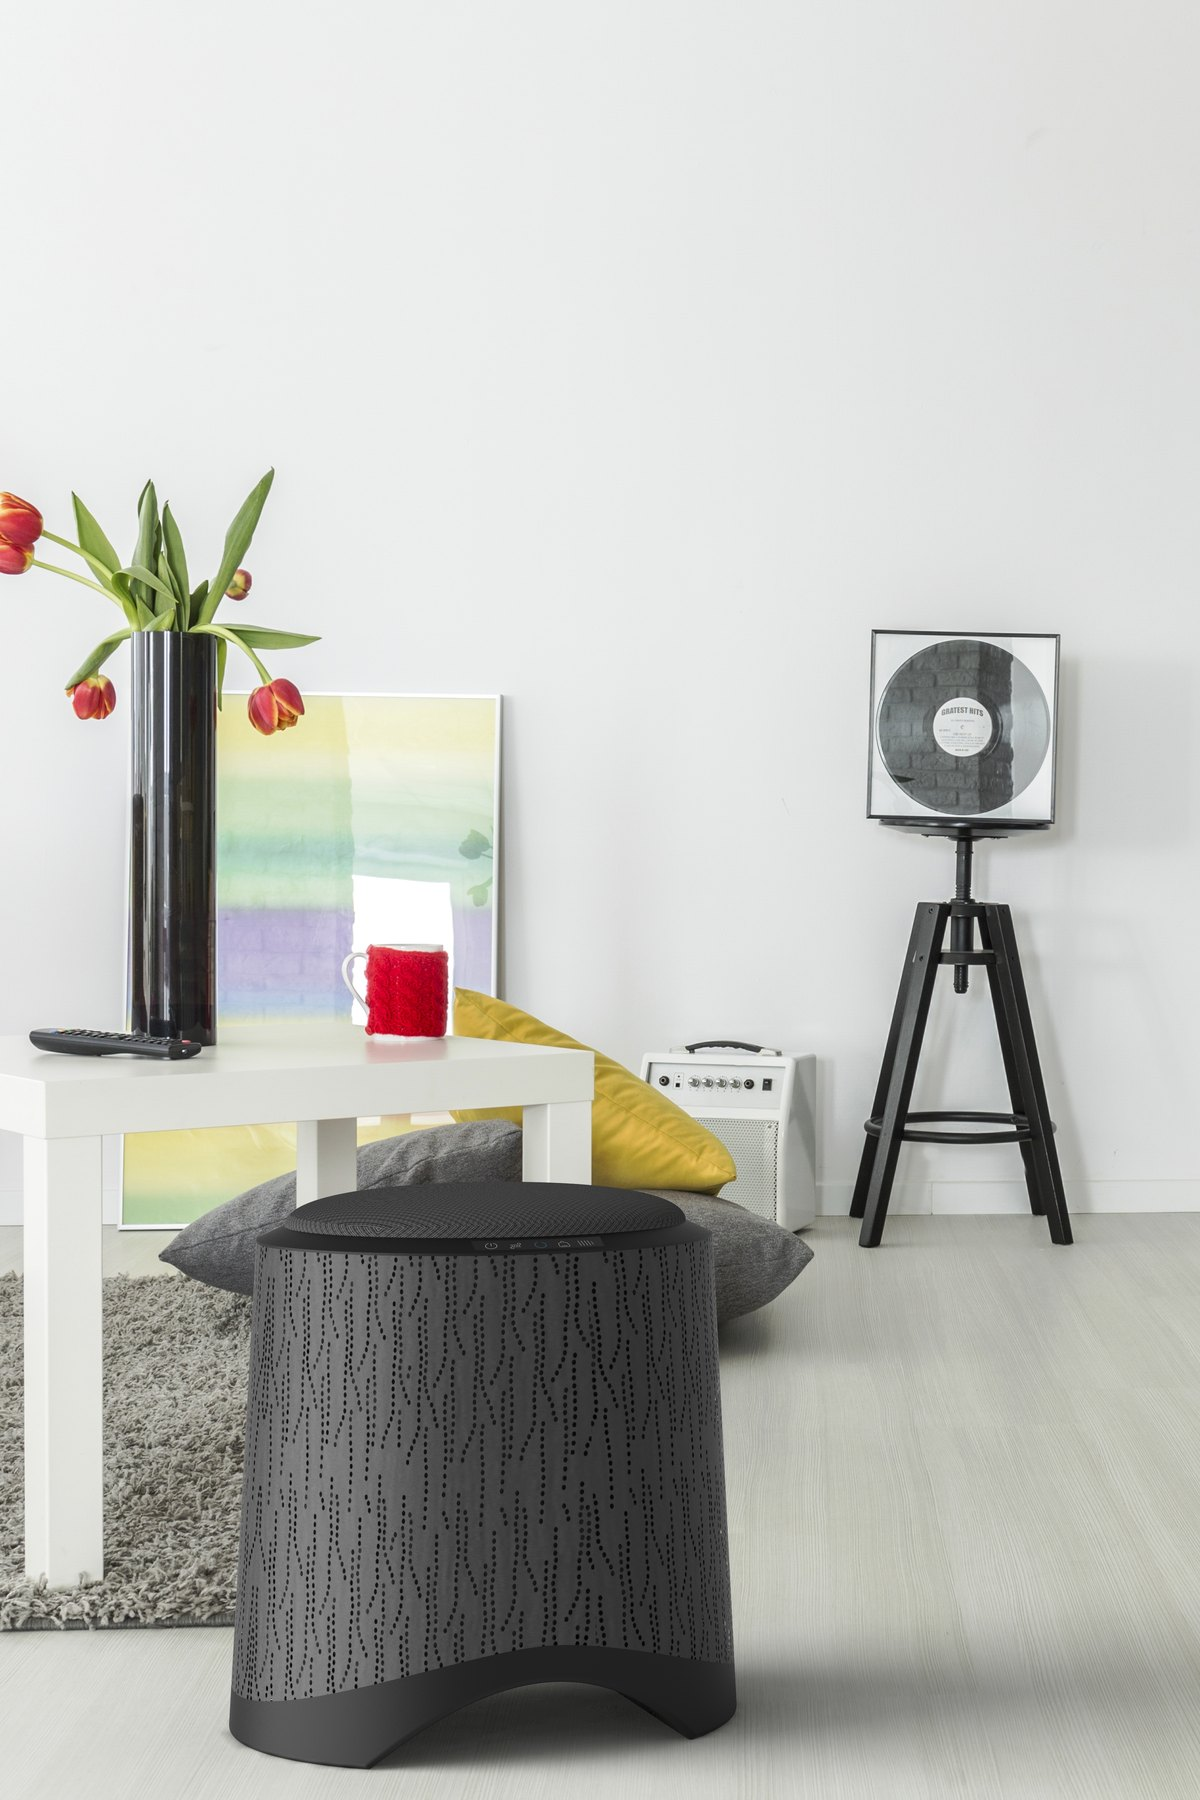
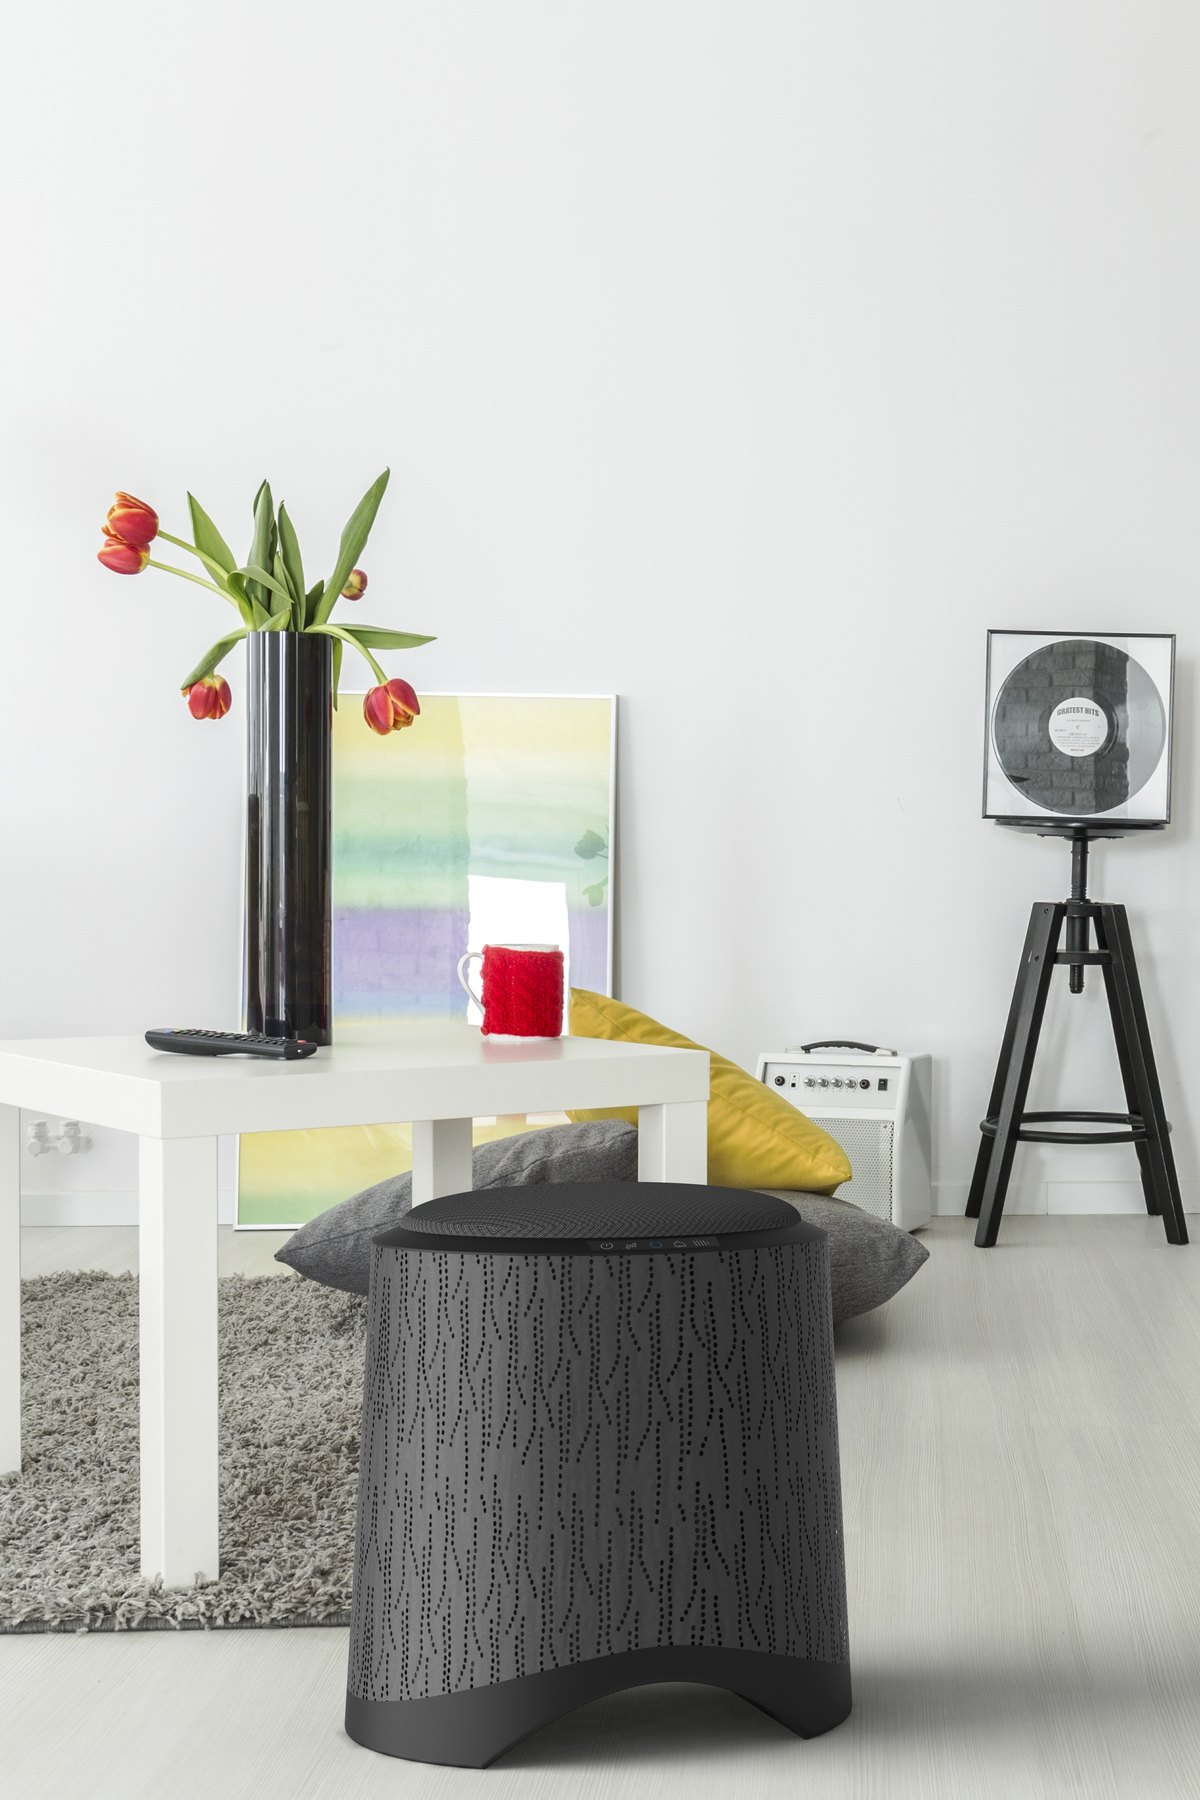
Corregge le tavole di Lavori: soggetti interi nel formato 4:5
- Immagine 4:5 dedicata (card.jpg) per Chilling, TAAC, Handprint, Postbiotica e Momento
- Nuove copertine verticali per Chilling, TAAC e Handprint
- "Torna alla home" anche in Lavori, About, Servizi, Contatti e 404
- CLAUDE.md: regola sulle tavole di Lavori

diff --git a/lavori.html b/lavori.html
@@ -21,7 +21,7 @@
   <a class="skip-link" href="#contenuto">Vai al contenuto</a>
 
   <header class="site-header">
-    <a class="back" href="index.html"><span aria-hidden="true">←</span> Torna a home</a>
+    <a class="back" href="index.html"><span aria-hidden="true">←</span> Torna alla home</a>
     <nav class="nav" aria-label="Navigazione principale">
       <ul>
         <li><a href="lavori.html" aria-current="page">Lavori</a></li>
@@ -89,13 +89,13 @@
       </a>
       <a class="work reveal" href="progetti/postbiotica.html">
         <div class="work__media">
-          <img src="images/postbiotica/cover-mobile.jpg" alt="Postbiotica — anteprima del progetto" width="1200" height="1800" loading="lazy">
+          <img src="images/postbiotica/card.jpg" alt="Postbiotica — anteprima del progetto" width="1200" height="1500" loading="lazy">
         </div>
         <p class="work__caption">Postbiotica sito web, visual 3D e infografiche</p>
       </a>
       <a class="work reveal" href="progetti/momento.html">
         <div class="work__media">
-          <img src="images/momento/cover-mobile.jpg" alt="Momento — anteprima del progetto" width="1200" height="1800" loading="lazy">
+          <img src="images/momento/card.jpg" alt="Momento — anteprima del progetto" width="1200" height="1500" loading="lazy">
         </div>
         <p class="work__caption">Momento brand identity</p>
       </a>
@@ -113,19 +113,19 @@
       </a>
       <a class="work reveal" href="progetti/chilling-at-home.html">
         <div class="work__media">
-          <img src="images/chilling-at-home/cover-mobile.jpg" alt="Chilling at Home — anteprima del progetto" width="1200" height="1800" loading="lazy">
+          <img src="images/chilling-at-home/card.jpg" alt="Chilling at Home — anteprima del progetto" width="1200" height="1500" loading="lazy">
         </div>
         <p class="work__caption">Chilling at Home product design, tesi di laurea per IMETEC</p>
       </a>
       <a class="work reveal" href="progetti/taac.html">
         <div class="work__media">
-          <img src="images/taac/cover-mobile.jpg" alt="TAAC — anteprima del progetto" width="1200" height="1800" loading="lazy">
+          <img src="images/taac/card.jpg" alt="TAAC — anteprima del progetto" width="1200" height="1500" loading="lazy">
         </div>
         <p class="work__caption">TAAC product design, concept per IKEA</p>
       </a>
       <a class="work reveal" href="progetti/handprint.html">
         <div class="work__media">
-          <img src="images/handprint/cover-mobile.jpg" alt="Handprint — anteprima del progetto" width="1200" height="1800" loading="lazy">
+          <img src="images/handprint/card.jpg" alt="Handprint — anteprima del progetto" width="1200" height="1500" loading="lazy">
         </div>
         <p class="work__caption">Handprint progetto fotografico</p>
       </a>

diff --git a/404.html b/404.html
@@ -21,7 +21,7 @@
   <a class="skip-link" href="#contenuto">Vai al contenuto</a>
 
   <header class="site-header">
-    <a class="back" href="/index.html"><span aria-hidden="true">←</span> Torna a home</a>
+    <a class="back" href="/index.html"><span aria-hidden="true">←</span> Torna alla home</a>
     <nav class="nav" aria-label="Navigazione principale">
       <ul>
         <li><a href="/lavori.html">Lavori</a></li>

diff --git a/about.html b/about.html
@@ -21,7 +21,7 @@
   <a class="skip-link" href="#contenuto">Vai al contenuto</a>
 
   <header class="site-header">
-    <a class="back" href="index.html"><span aria-hidden="true">←</span> Torna a home</a>
+    <a class="back" href="index.html"><span aria-hidden="true">←</span> Torna alla home</a>
     <nav class="nav" aria-label="Navigazione principale">
       <ul>
         <li><a href="lavori.html">Lavori</a></li>

diff --git a/contatti.html b/contatti.html
@@ -21,7 +21,7 @@
   <a class="skip-link" href="#contenuto">Vai al contenuto</a>
 
   <header class="site-header">
-    <a class="back" href="index.html"><span aria-hidden="true">←</span> Torna a home</a>
+    <a class="back" href="index.html"><span aria-hidden="true">←</span> Torna alla home</a>
     <nav class="nav" aria-label="Navigazione principale">
       <ul>
         <li><a href="lavori.html">Lavori</a></li>

diff --git a/servizi.html b/servizi.html
@@ -21,7 +21,7 @@
   <a class="skip-link" href="#contenuto">Vai al contenuto</a>
 
   <header class="site-header">
-    <a class="back" href="index.html"><span aria-hidden="true">←</span> Torna a home</a>
+    <a class="back" href="index.html"><span aria-hidden="true">←</span> Torna alla home</a>
     <nav class="nav" aria-label="Navigazione principale">
       <ul>
         <li><a href="lavori.html">Lavori</a></li>

diff --git a/CLAUDE.md b/CLAUDE.md
@@ -109,7 +109,8 @@ Stile Behance: guidata dalle immagini, pochissimo testo. Ordine:
 - Immagini con nomi descrittivi in `images/<slug>/` (es. `cover.jpg`, `cover-mobile.jpg`, `manifesto.jpg`,
   `poster-1.jpg`). Senza bordi bianchi: rifilare o ingrandire leggermente per riempire il formato.
 - In home il pannello ha `id="<slug>"` e la `<picture>` con la copertina verticale; in Lavori la tavola 4:5
-  usa `cover-mobile.jpg`.
+  usa `cover-mobile.jpg`, oppure `card.jpg` (4:5) se il ritaglio taglierebbe il soggetto: il prodotto o le persone
+  devono vedersi interi anche nella tavola.
 - Sorgenti e prototipi restano fuori dal repo, in `C:\Claude_Folder\portfolio-prototipi\` (repo pubblico).
 - Progetti (3/11/2026). In home, in quest'ordine: FG Albertelli, Il Mannarino, Etjca, Hummus Around,
   IDNTT Everywhere, FILA Group, Postbiotica (confermato da Giulia). Solo in Lavori: Momento, Al Passo, Zero, e in coda i progetti di laurea
